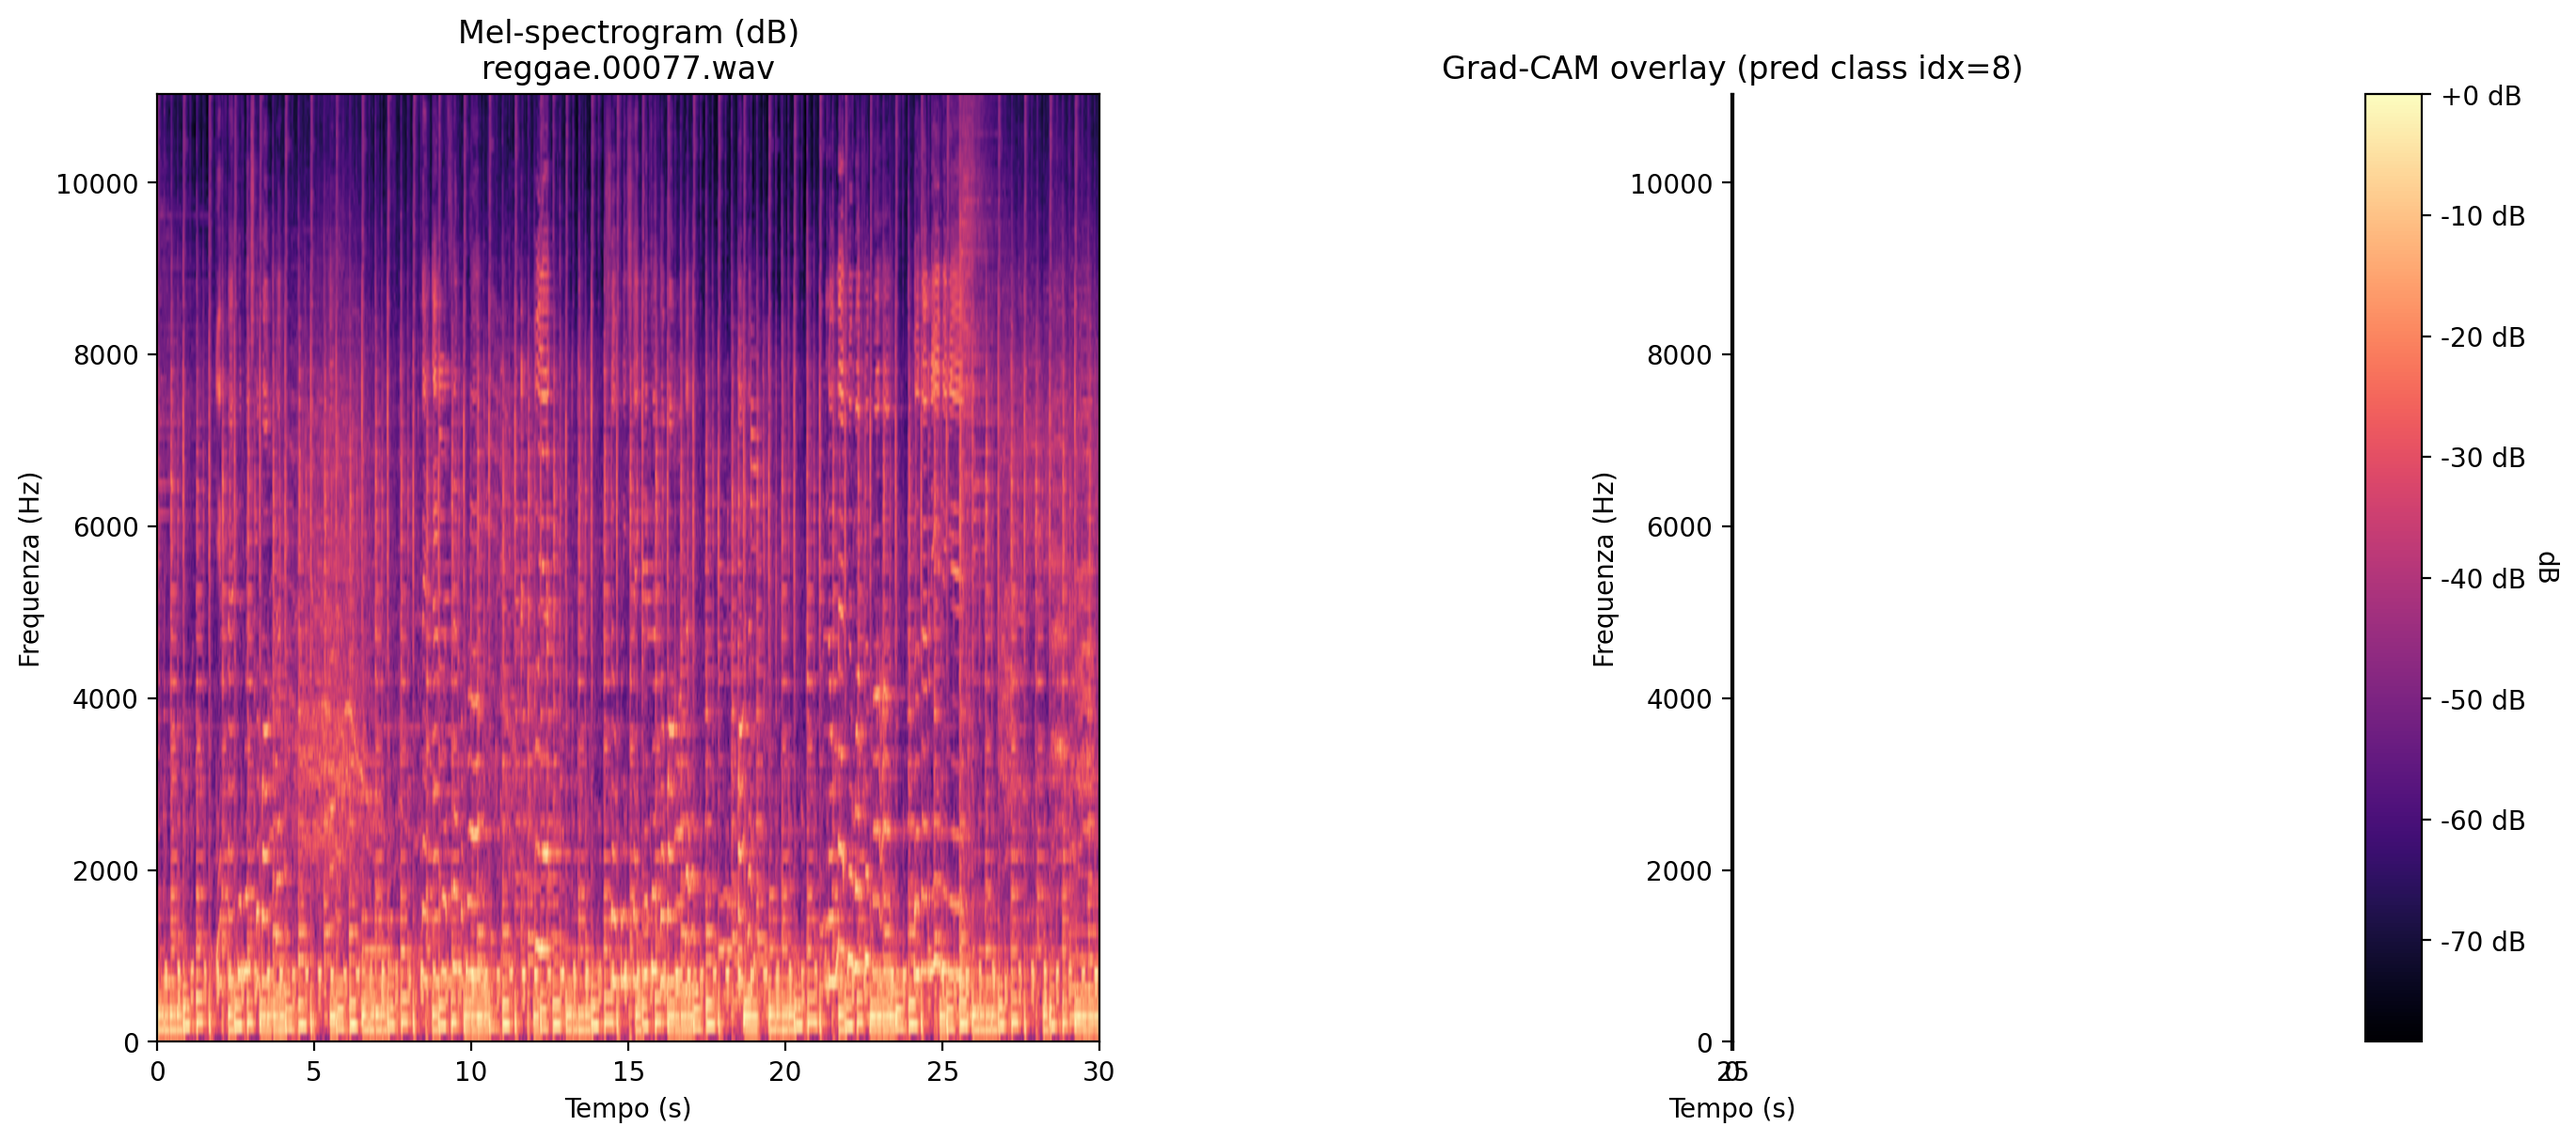
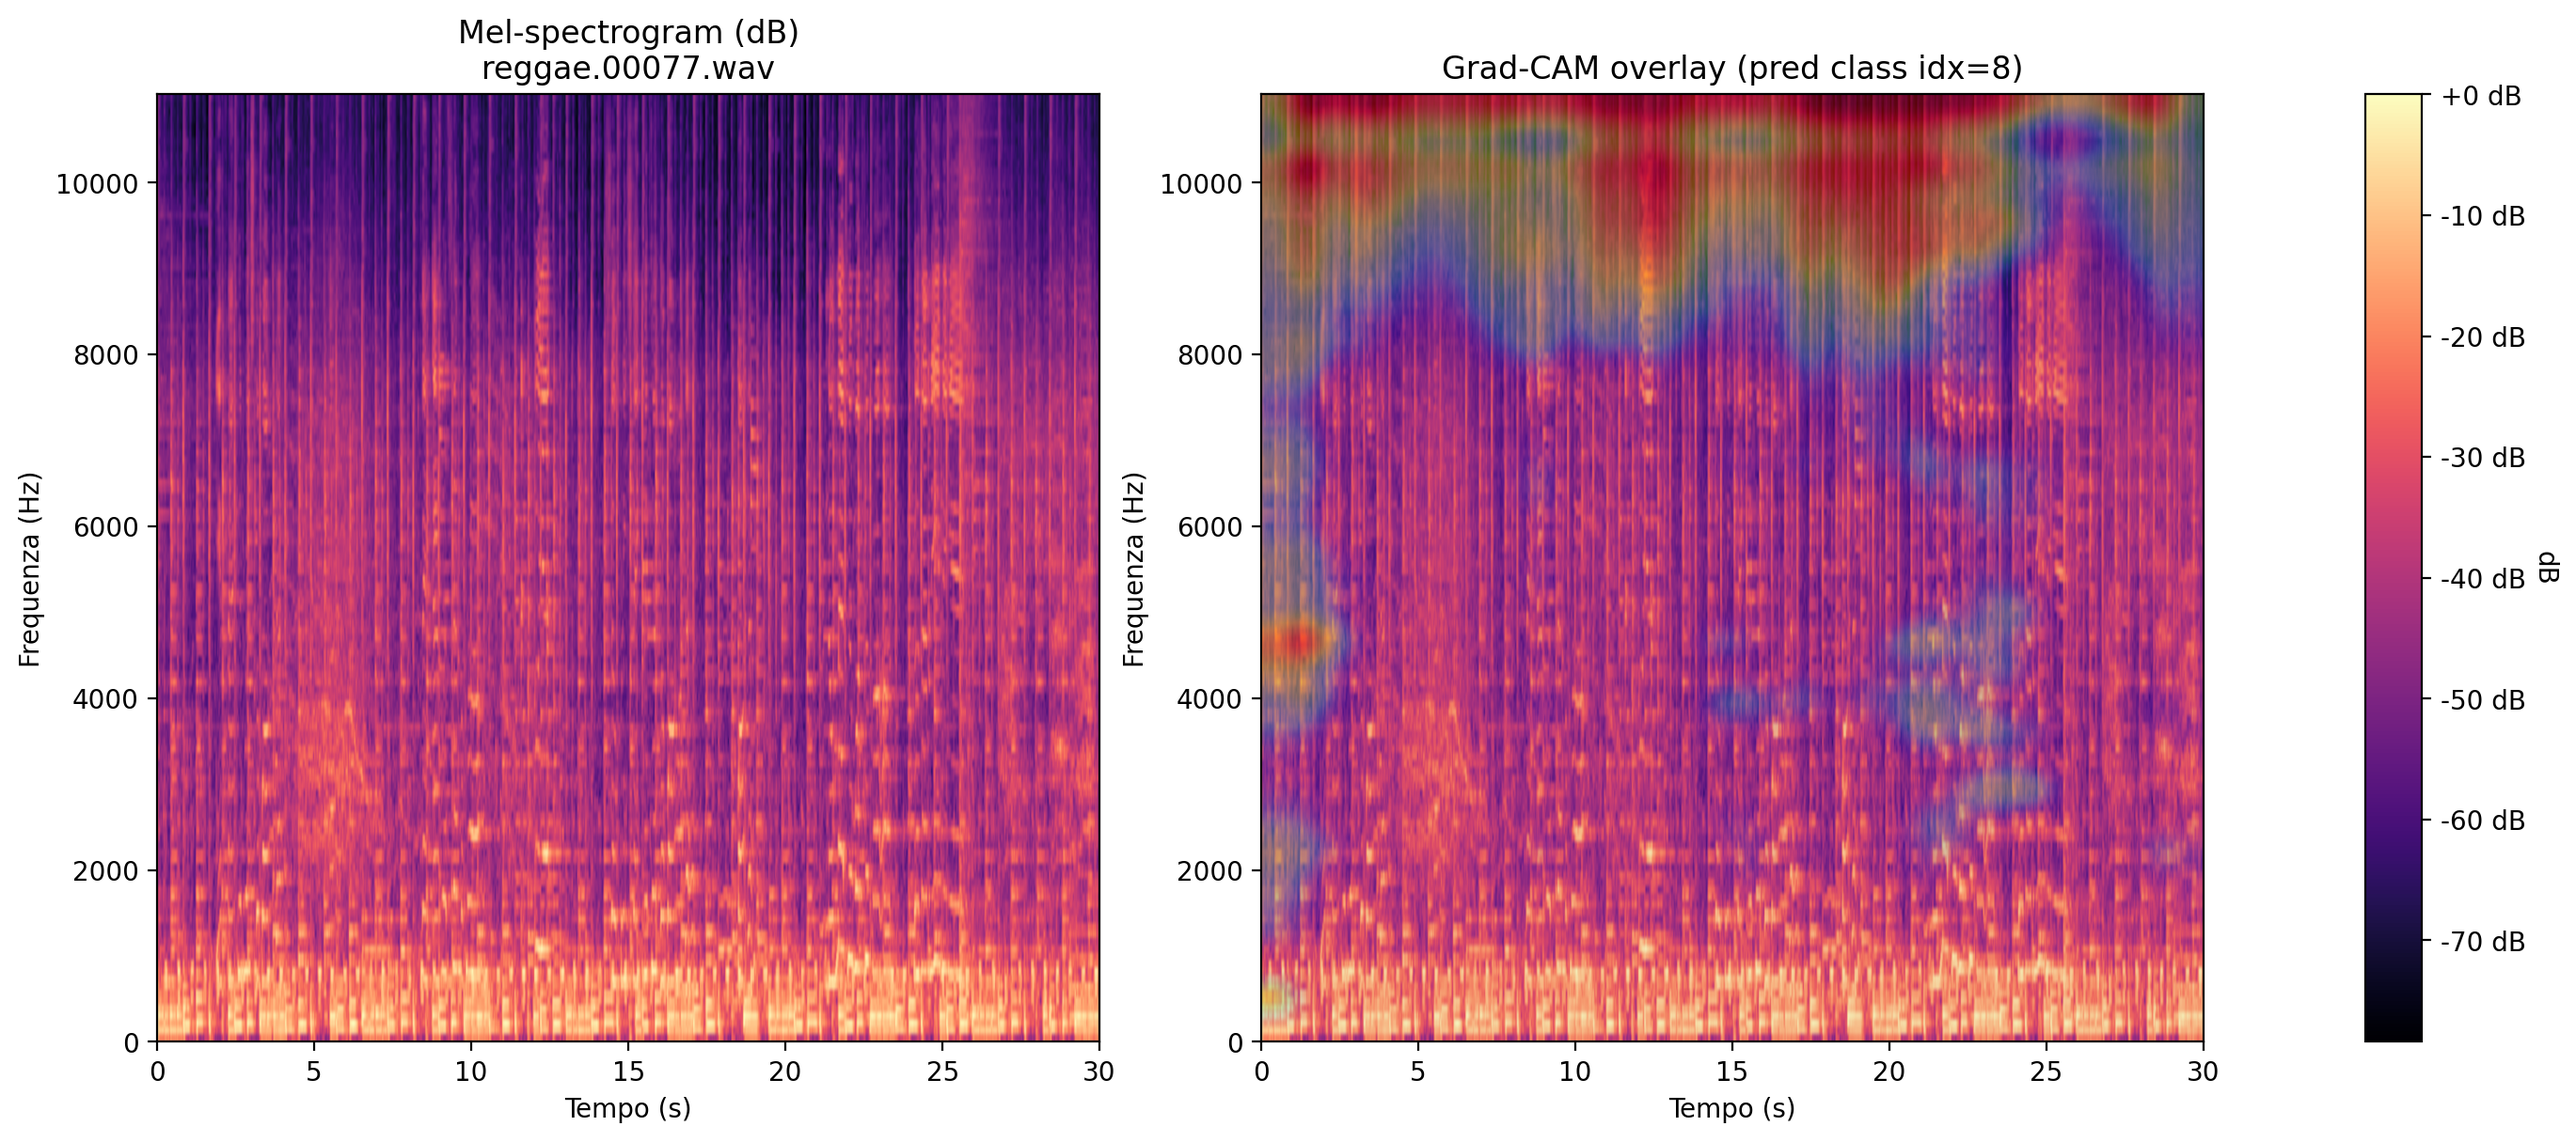
modifica gradcam

diff --git a/src/preprocessing.py b/src/preprocessing.py
@@ -575,7 +575,14 @@ def plot_tsne_on_mfcc_vectors(df_tab, label_col="genre", n_samples=None, perplex
 # ----------------------------
 # Grad-CAM (come prima)
 # ----------------------------
+import os
+import numpy as np
+import cv2
+import matplotlib.pyplot as plt
 import matplotlib.gridspec as gridspec
+import matplotlib.cm as cm
+import librosa
+import tensorflow as tf
 
 def get_last_conv_layer_name(model):
     for layer in reversed(model.layers):
@@ -583,8 +590,11 @@ def get_last_conv_layer_name(model):
             return layer.name
     return None
 
-
 def compute_gradcam_heatmap(model, img_input, last_conv_name=None, pred_index=None):
+    """
+    img_input: numpy array shape (1, H, W, C), dtype float32
+    restituisce heatmap normalizzata (H', W') e pred_index
+    """
     img_input = np.asarray(img_input, dtype=np.float32)
     if img_input.ndim != 4 or img_input.shape[0] != 1:
         raise ValueError("img_input must be shape (1,H,W,C)")
@@ -592,56 +602,84 @@ def compute_gradcam_heatmap(model, img_input, last_conv_name=None, pred_index=No
     if last_conv_name is None:
         last_conv_name = get_last_conv_layer_name(model)
         if last_conv_name is None:
-            raise ValueError("Nessun layer Conv2D trovato nel modello")
+            raise ValueError("No Conv2D layer found in model")
 
-    grad_model = tf.keras.models.Model(inputs=model.inputs,
-                                       outputs=[model.get_layer(last_conv_name).output, model.output])
+    # modello che restituisce output del conv layer e output finale
+    grad_model = tf.keras.models.Model(
+        inputs=model.inputs,
+        outputs=[model.get_layer(last_conv_name).output, model.output]
+    )
 
     img_tensor = tf.convert_to_tensor(img_input, dtype=tf.float32)
 
     with tf.GradientTape() as tape:
+        # forward pass
         conv_outputs, predictions = grad_model(img_tensor)
+        # se pred_index non è dato, prendi l'argmax delle predizioni
         if pred_index is None:
-            pred_index = tf.argmax(predictions[0]).numpy()
+            pred_index = int(tf.argmax(predictions[0]).numpy())
         class_channel = predictions[:, pred_index]
 
+    # Assicuriamoci che tape osservi conv_outputs per il calcolo dei gradienti
+    tape.watch(conv_outputs)
     grads = tape.gradient(class_channel, conv_outputs)
+    if grads is None:
+        # gradiente nullo: niente segnale
+        H, W, K = conv_outputs.shape[1], conv_outputs.shape[2], conv_outputs.shape[3]
+        return np.zeros((H, W), dtype=np.float32), pred_index
+
+    # global average pooling sui gradienti (come in Grad-CAM)
     pooled_grads = tf.reduce_mean(grads, axis=(0,1,2))
 
-    conv_outputs = conv_outputs[0]
+    conv_outputs = conv_outputs[0]  # rimuove la dimensione batch
+    # pesiamo ogni feature map per il suo gradiente medio
     weighted = conv_outputs * pooled_grads[tf.newaxis, tf.newaxis, :]
     heatmap = tf.reduce_sum(weighted, axis=-1)
+
+    # ReLU e normalizzazione
     heatmap = tf.maximum(heatmap, 0)
     max_val = tf.reduce_max(heatmap)
-    if max_val == 0:
+    if max_val.numpy() <= 1e-8:
+        # nessun segnale significativo
         heatmap = tf.zeros_like(heatmap)
     else:
         heatmap = heatmap / (max_val + 1e-9)
-    heatmap = heatmap.numpy()
-    return heatmap, int(pred_index)
+
+    return heatmap.numpy(), pred_index
 
 
 def plot_gradcam_overlay_for_file_v3(model, file_path, sample_img_for_model,
                                      sr=22050, n_mels=128, hop_length=512,
                                      last_conv_name=None, duration=30.0,
                                      cmap='magma', out_dir=None):
+    """
+    sample_img_for_model: array (H,W,C) o (H,W) -- se (H,W) verrà aggiunto canale
+    restituisce heatmap (float array), pred_idx, out_path
+    """
+    # Assicuriamoci che l'input abbia canale e batch dim
     img = np.array(sample_img_for_model)
     if img.ndim == 2:
         img = img[..., np.newaxis]
-    img_input = np.expand_dims(img, axis=0).astype(np.float32)
+    if img.ndim == 3:
+        img_input = np.expand_dims(img, axis=0).astype(np.float32)
+    else:
+        raise ValueError("sample_img_for_model must be 2D or 3D (H,W[,C])")
 
     last_conv = last_conv_name or get_last_conv_layer_name(model)
     if last_conv is None:
-        raise RuntimeError("Nessun Conv2D trovato nel modello. Impossibile Grad-CAM.")
+        raise RuntimeError("No Conv2D found in model. Can't compute Grad-CAM.")
 
+    # compute heatmap
     heatmap, pred_idx = compute_gradcam_heatmap(model, img_input, last_conv_name=last_conv, pred_index=None)
 
+    # stampiamo le top predictions per controllo
     try:
         probs = model.predict(img_input, verbose=0)[0]
         print("Top preds (idx:prob):", sorted([(i, float(p)) for i,p in enumerate(probs)], key=lambda x:-x[1])[:5])
     except Exception as e:
-        print("Impossibile ottenere probs:", e)
+        print("Could not obtain probs:", e)
 
+    # carichiamo l'audio e ricreiamo lo spettrogramma per avere le dimensioni esatte
     y_raw, sr = librosa.load(file_path, sr=sr, mono=True, duration=duration)
     S = librosa.feature.melspectrogram(y=y_raw, sr=sr, n_mels=n_mels, hop_length=hop_length, fmax=sr/2)
     S_db = librosa.power_to_db(S, ref=np.max)
@@ -649,26 +687,46 @@ def plot_gradcam_overlay_for_file_v3(model, file_path, sample_img_for_model,
     time_end = (n_frames * hop_length) / sr
     extent = [0, time_end, 0, sr/2]
 
+    # heatmap -> ridimensiona a (n_mels, n_frames)
+    # cv2.resize expects (width, height) as dsize, returns array shape (height, width)
     heat_resized = cv2.resize(heatmap, (n_frames, n_mels_calc), interpolation=cv2.INTER_CUBIC)
+    # heat_resized ora ha shape (n_mels_calc, n_frames) se tutto ok
+    # Normalizziamo in [0,1]
+    if np.nanmax(heat_resized) > 0:
+        heat_resized = heat_resized - np.nanmin(heat_resized)
+        heat_resized = heat_resized / (np.nanmax(heat_resized) + 1e-9)
+    else:
+        print("[Warning] Grad-CAM heatmap appears empty (all zeros). Saving figure without overlay.")
 
+    # costruiamo una mappa RGBA dalla heatmap usando una colormap (jet)
+    colored_heat = cm.get_cmap('jet')(heat_resized)  # shape (H, W, 4), valori in [0,1]
+    # impostiamo alpha in base al valore della heatmap (es. 0..0.6)
+    alpha_mask = np.clip(heat_resized, 0, 1) * 0.6
+    colored_heat[..., 3] = alpha_mask
+
+    # plot
     fig = plt.figure(figsize=(14,6))
     gs = gridspec.GridSpec(1, 3, width_ratios=[1.0, 1.0, 0.06], wspace=0.25)
     ax0 = fig.add_subplot(gs[0])
     ax1 = fig.add_subplot(gs[1])
     cax = fig.add_subplot(gs[2])
 
+    # spettrogramma sinistro (solo mel)
     im0 = ax0.imshow(S_db, origin='lower', aspect='auto', extent=extent, cmap=cmap)
     ax0.set_title(f"Mel-spectrogram (dB)\n{os.path.basename(file_path)}")
     ax0.set_xlabel("Tempo (s)")
     ax0.set_ylabel("Frequenza (Hz)")
 
+    # spettrogramma destro + overlay grad-cam colorato
     im1 = ax1.imshow(S_db, origin='lower', aspect='auto', extent=extent, cmap=cmap)
-    ax1.imshow(heat_resized, cmap='jet', alpha=0.5, origin='lower', extent=extent)
+    # overlay RGBA: dobbiamo passare extent e origin per allineare
+    ax1.imshow(colored_heat, origin='lower', aspect='auto', extent=extent, interpolation='bilinear')
     ax1.set_title(f"Grad-CAM overlay (pred class idx={pred_idx})")
     ax1.set_xlabel("Tempo (s)")
     ax1.set_ylabel("Frequenza (Hz)")
 
-    cbar = fig.colorbar(im1, cax=cax, format='%+2.0f dB')
+    # colorbar relativa al mel-spectrogram (dB)
+    cbar = fig.colorbar(im0, cax=cax, format='%+2.0f dB')
     cbar.set_label('dB', rotation=270, labelpad=12)
 
     fig.subplots_adjust(left=0.06, right=0.92, top=0.92, bottom=0.08)
@@ -682,11 +740,13 @@ def plot_gradcam_overlay_for_file_v3(model, file_path, sample_img_for_model,
     print("Saved gradcam image to:", out_path)
 
     try:
-        plt.show(block=True)
+        plt.show(block=False)
     except Exception:
         plt.pause(0.5)
 
     return heatmap, pred_idx, out_path
+
+
 
 # ----------------------------
 # Helper: esecuzione modelli tabulari con e senza PCA/LDA
@@ -953,8 +1013,8 @@ def main():
     if last_conv:
         sample_idx = 0
         sample_file = files_test[sample_idx]
-        sample_img_for_model = X_mel_test[sample_idx][..., 0]
-        heatmap, pred, out_path = plot_gradcam_overlay_for_file_v3(cnn_model, sample_file, sample_img_for_model,
+        sample_img_for_model = X_mel_test[sample_idx] # [6]
+        """heatmap, pred, out_path = plot_gradcam_overlay_for_file_v3(cnn_model, sample_file, sample_img_for_model,
                                                                    sr=SAMPLE_RATE, n_mels=128, hop_length=512, duration=30.0)
         try:
             if os.name == 'nt':
@@ -962,7 +1022,70 @@ def main():
         except Exception:
             pass
     else:
-        print("No Conv2D layer found for Grad-CAM.")
+        print("No Conv2D layer found for Grad-CAM.")"""
+
+
+    # Prepara l'input per la funzione compute_gradcam_heatmap [5]
+    # Questa parte replica la preparazione dell'input all'interno di plot_gradcam_overlay_for_file_v3 [1]
+    img_for_gradcam_input = np.array(sample_img_for_model)
+    if img_for_gradcam_input.ndim == 2:
+        img_for_gradcam_input = img_for_gradcam_input[..., np.newaxis] # Aggiunge la dimensione del canale
+    img_input_reshaped = np.expand_dims(img_for_gradcam_input, axis=0).astype(np.float32) # Aggiunge la dimensione del batch
+
+    # 1. Stampa il Mel-spectrogram originale separatamente
+    print("Visualizzazione del Mel-spectrogram originale...")
+    try:
+        y_raw, sr_loaded = librosa.load(sample_file, sr=SAMPLE_RATE, mono=True, duration=30.0) # Carica audio [7]
+        # Calcola Mel-spectrogram [7]
+        S = librosa.feature.melspectrogram(y=y_raw, sr=sr_loaded, n_mels=128, hop_length=512, fmax=sr_loaded/2)
+        S_db = librosa.power_to_db(S, ref=np.max) # Converti in dB [7]
+
+        n_frames_calc = S_db.shape[6]
+        time_end_calc = (n_frames_calc * 512) / sr_loaded # hop_length = 512
+        extent_calc = [0, time_end_calc, 0, sr_loaded/2]
+
+        plt.figure(figsize=(10, 5))
+        # Plot dello spettrogramma [2]
+        im_mel = plt.imshow(S_db, origin='lower', aspect='auto', extent=extent_calc, cmap='magma')
+        plt.colorbar(im_mel, format='%+2.0f dB', label='dB')
+        plt.title(f"Mel-spectrogram (dB)\n{os.path.basename(sample_file)}") # [2]
+        plt.xlabel("Tempo (s)") # [2]
+        plt.ylabel("Frequenza (Hz)") # [2]
+        plt.tight_layout()
+        plt.show() # Mostra la figura
+
+    except Exception as e:
+        print(f"Errore durante la generazione del Mel-spectrogram separato: {e}")
+
+
+    # 2. Calcola e stampa la heatmap Grad-CAM pura
+    print("Calcolo e visualizzazione della heatmap Grad-CAM pura...")
+    # Calcola la heatmap Grad-CAM [4]
+    heatmap, pred_idx = compute_gradcam_heatmap(cnn_model, img_input_reshaped, last_conv_name=last_conv)
+
+    plt.figure(figsize=(8, 6))
+    # Visualizza la heatmap [8]
+    plt.imshow(heatmap, cmap='jet', aspect='auto') # 'jet' è una colormap comune per le heatmap
+    plt.colorbar(label='Intensità di Attivazione')
+    plt.title(f"Grad-CAM Heatmap Pura (Indice Classe Predetta: {pred_idx})")
+    plt.tight_layout()
+    plt.show() # Mostra la figura
+
+    # 3. Stampa l'overlay Grad-CAM sul Mel-spectrogram (già gestito dalla funzione esistente)
+    print("Visualizzazione dell'overlay Grad-CAM sul Mel-spectrogram (già combinato in una figura)...")
+    # Questa chiamata genera la figura con due subplot: mel-spectrogram originale e l'overlay [2, 3]
+    # e salva l'immagine [9]
+    heatmap_overlay, pred_overlay, out_path = plot_gradcam_overlay_for_file_v3(cnn_model, sample_file, sample_img_for_model,
+                                            sr=SAMPLE_RATE, n_mels=128, hop_length=512, duration=30.0,
+                                            out_dir=os.getcwd()) # Assicura il salvataggio nella directory corrente
+    try:
+        if os.name == 'nt':
+            os.startfile(out_path) # [6]
+    except Exception: # [10]
+        pass
+
+    else:
+        print("Nessun layer Conv2D trovato per Grad-CAM.") # [10]
 
     # LIME example (usiamo il miglior modello tabulare per coerenza)
     print("\n8) LIME explanation sul miglior modello tabulare (per accuracy):")
